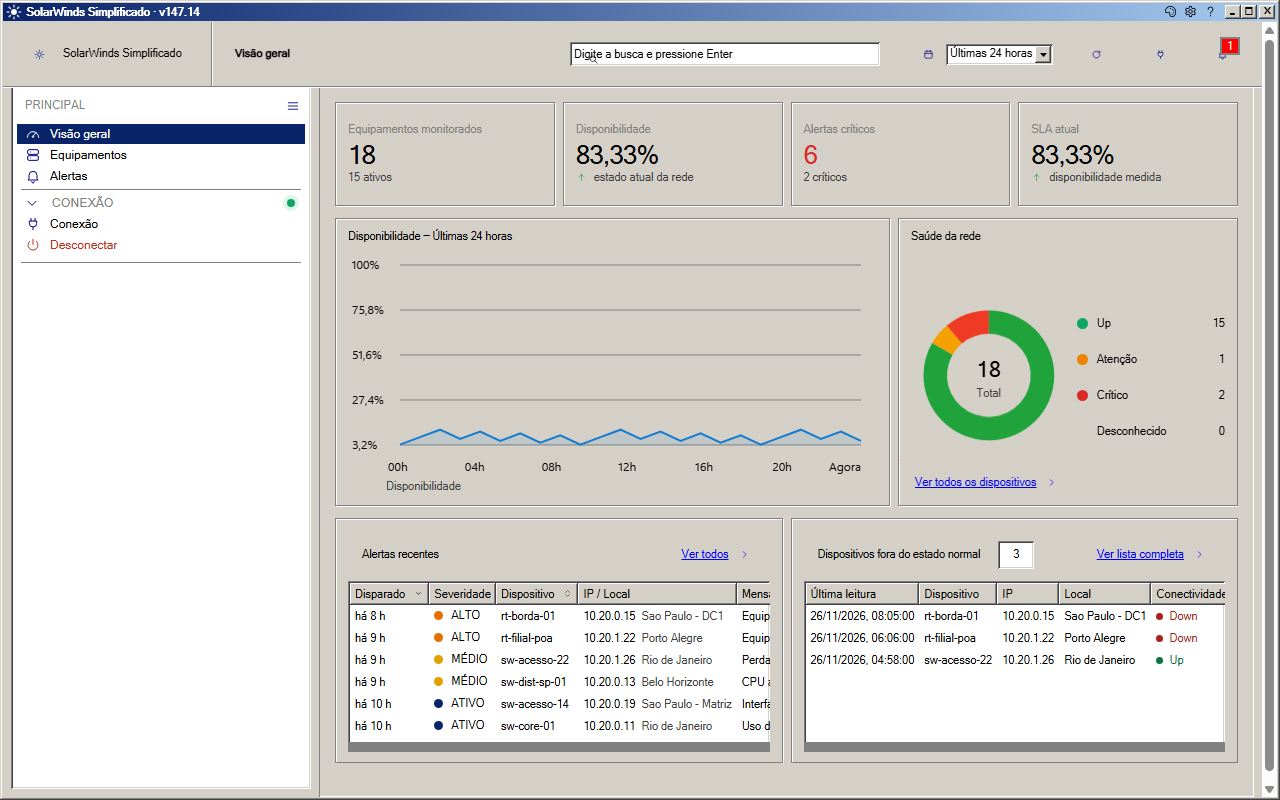
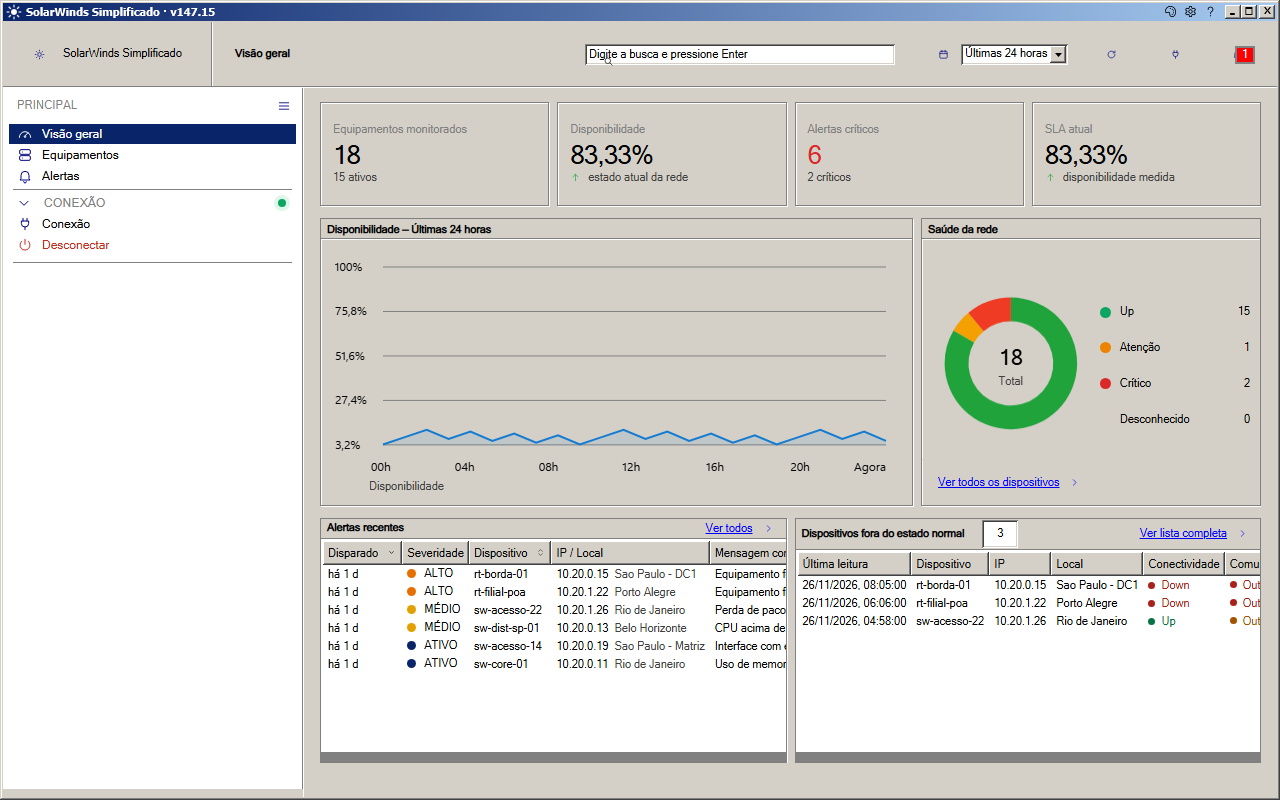
Vitrine da versão 147.15: fotos novas e novidades

diff --git a/README.md b/README.md
@@ -1,7 +1,7 @@
 <p align="center"><img src="telas/banner.png" alt="SolarWinds Simplificado" width="100%"></p>
 
 <p align="center">
-<img src="https://img.shields.io/badge/vers%C3%A3o-147.14-blue"> <img src="https://img.shields.io/badge/Windows-10%20%7C%2011-0078D6"> <img src="https://img.shields.io/badge/.NET-10-512BD4"> <img src="https://img.shields.io/badge/licen%C3%A7a-autoriza%C3%A7%C3%A3o%20do%20autor-lightgrey">
+<img src="https://img.shields.io/badge/vers%C3%A3o-147.15-blue"> <img src="https://img.shields.io/badge/Windows-10%20%7C%2011-0078D6"> <img src="https://img.shields.io/badge/.NET-10-512BD4"> <img src="https://img.shields.io/badge/licen%C3%A7a-autoriza%C3%A7%C3%A3o%20do%20autor-lightgrey">
 </p>
 
 <p align="center"><b>O dia a dia do SolarWinds Orion numa janela simples e rápida.</b><br><i>Everyday SolarWinds Orion work in one simple, fast window.</i></p>
@@ -32,14 +32,14 @@ Um cliente para quem administra o SolarWinds Orion e quer ver o estado da rede e
 | Cadastro / Provisioning | Criar, importar (várias cópias), editar, clonar e excluir. / *Create, import (many copies), edit, clone and delete.* |
 | Exportar / Export | CSV (Excel), PDF, JSON ou Markdown; configuração para importar depois. / *CSV (Excel), PDF, JSON or Markdown; device config to import later.* |
 | Alertas / Alerts | Alertas ativos com severidade, filtros e exportação. / *Active alerts with severity, filters and export.* |
-| Aparência / Appearance | Windows 7 Basic (10 cores) ou Windows Clássico, escolhidos em Configurações. / *Windows 7 Basic (10 colors) or Windows Classic, chosen in Settings.* |
+| Aparência / Appearance | Tema Padrão (10 cores) ou Clássico, escolhidos em Configurações. / *Standard theme (10 colors) or Classic, chosen in Settings.* |
 | Segurança / Security | Senha protegida pelo Windows (DPAPI); atualização assinada e automática. / *Password protected by Windows (DPAPI); signed automatic updates.* |
 
 ## Galeria / Gallery
 | | |
 |---|---|
 | ![](telas/alertas.png)<br>Alertas ativos / *Active alerts* | ![](telas/exportar.png)<br>Exportar configurações / *Export configurations* |
-| ![](telas/conexao.png)<br>Conectar ao Orion / *Connect to Orion* | ![](telas/classico.png)<br>Tema Windows Clássico / *Windows Classic theme* |
+| ![](telas/conexao.png)<br>Conectar ao Orion / *Connect to Orion* | ![](telas/classico.png)<br>Tema Clássico / *Classic theme* |
 | ![](telas/configuracoes.png)<br>Configurações › Aparência / *Settings › Appearance* | ![](telas/configuracoes-classico.png)<br>Configurações no Clássico / *Settings in Classic* |
 
 <sub>Imagens com dados fictícios. / *Screenshots with sample data.*</sub>
@@ -50,9 +50,10 @@ Um cliente para quem administra o SolarWinds Orion e quer ver o estado da rede e
 
 Windows 10/11 x64 · .NET 10 Desktop Runtime · WebView2 Runtime
 
-## Novidades / What's new — v147.14
-- Novo visual: Windows 7 Basic (padrão) ou Windows Clássico, em todas as janelas. / *New look: Windows 7 Basic (default) or Windows Classic, in every window.*
-- 10 cores de janela e Configurações em galeria; vale na hora e Cancelar desfaz. / *10 window colors and a gallery-style Settings; applies right away, Cancel undoes.*
-- Tamanho da interface Pequeno, Médio ou Grande. / *Small, Medium or Large interface size.*
+## Novidades / What's new — v147.15
+- Temas com nomes novos, Padrão e Clássico; títulos dos grupos em azul-escuro e ícones sempre azuis (a cor da janela vale só na moldura). / *Themes renamed Standard and Classic; dark-blue group titles and always-blue icons (the window color only affects the frame).*
+- Configurações com lista e página encostadas, rodapé com "Restaurar padrão" e caixas de escolha brancas. / *Settings with flush list and page, a "Restore defaults" footer and white drop-downs.*
+- Filtros dos alertas na caixa "Mostrar", listas mais baixas e aviso de versão nova no formato das mensagens. / *Alert filters in a "Show" box, shorter list rows and the new-version notice as a message.*
+- Tamanho da interface em todas as janelas; no Clássico, nenhum canto arredondado e letra Tahoma. / *Interface size in every window; no rounded corners and Tahoma in Classic.*
 
 <sub>Uso somente com autorização escrita do autor. Termos em [LICENSE](https://github.com/Dorflex-DD/SolarWinds-releases/releases/latest/download/LICENSE). / Use only with the author's written authorization. Terms in [LICENSE](https://github.com/Dorflex-DD/SolarWinds-releases/releases/latest/download/LICENSE).</sub>
